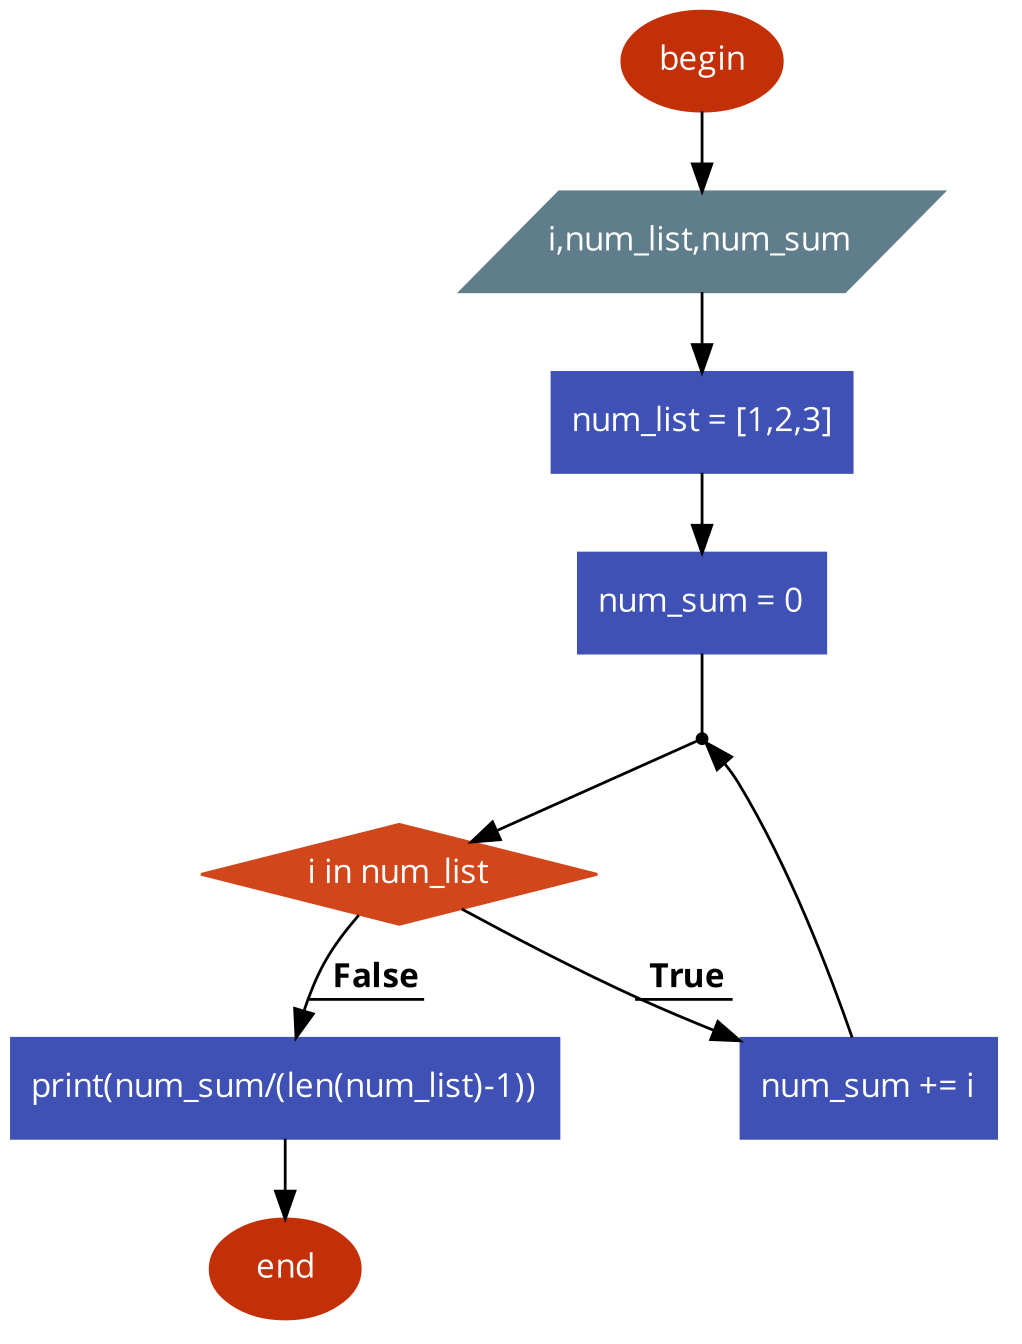
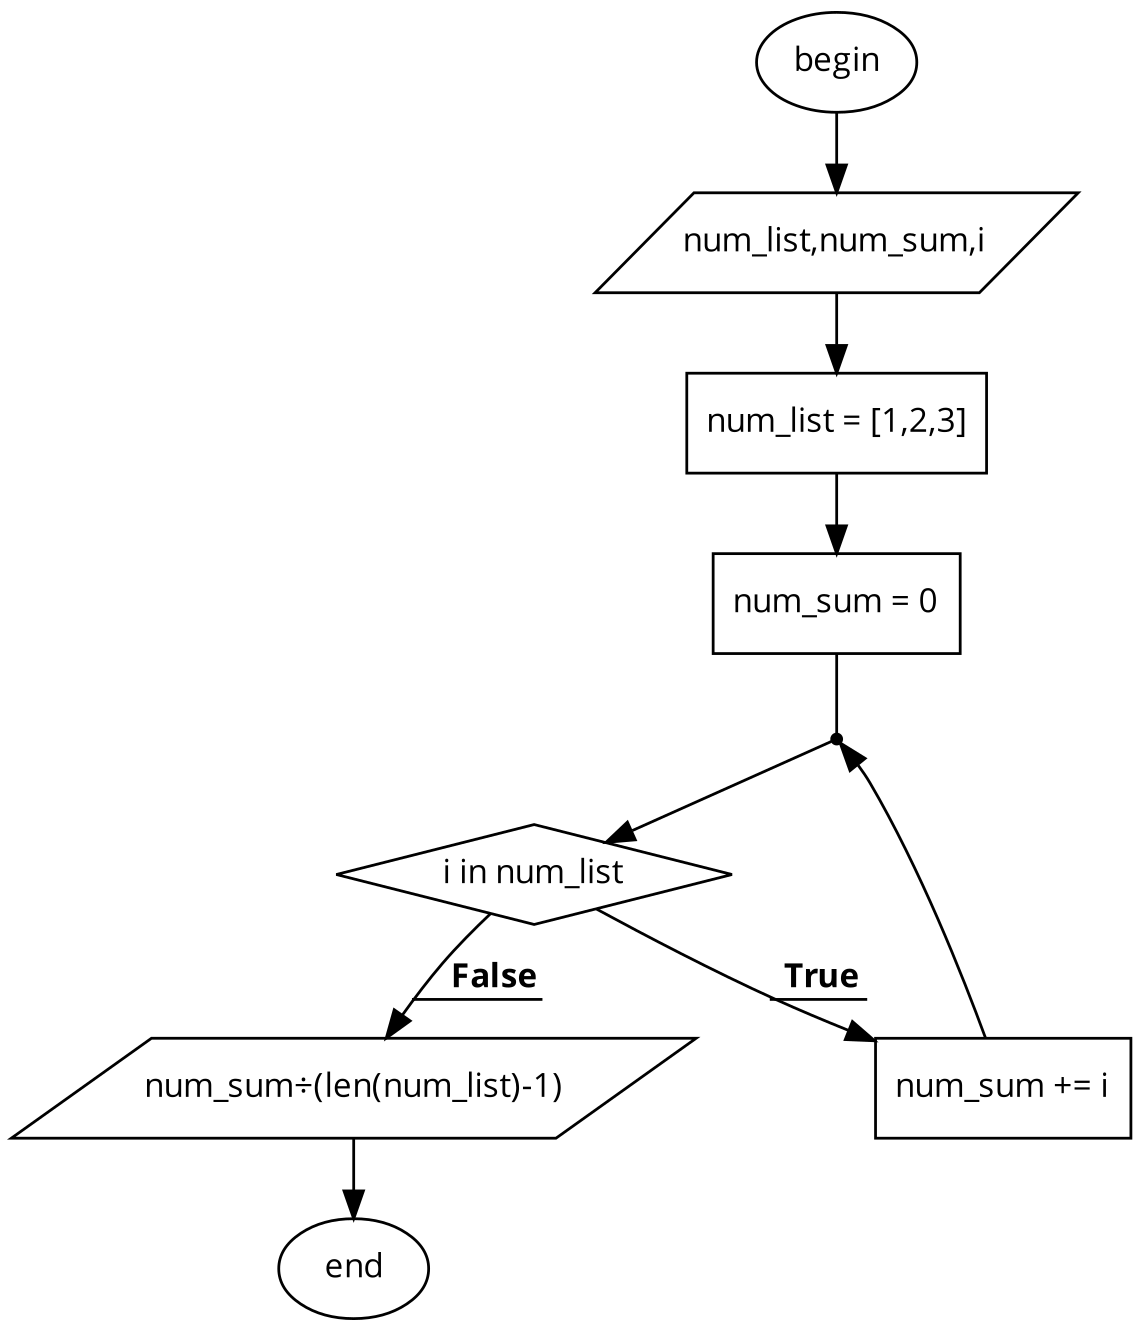
fix: minor fixes

Changed region(s): [[0.0, 0.0, 1.0, 1.0]]

diff --git a/Python2Pseudocode/Pseudocode.py b/Python2Pseudocode/Pseudocode.py
@@ -21,15 +21,21 @@ class Pseudocode:
     def _get_c_styled(self, line) -> str:
         #clear type-changing operators, input, print 
         line = line.replace('*', '×')
-        line = line.replace('/', ':')
-        line = re.sub('input ?\(.*?\)', '', line)
-        line = re.sub('print ?\((.*?)\)', '/\g<1>/', line)
-        line = re.sub('(int|float|str|bool|tuple|list|dict|set) ?\((.*?)\)', '\g<2>', line)
+        line = line.replace('/', '÷')
+        line = re.sub('input ?\( ?.* ?\)', '', line)
+        line = re.sub('print ?\( ?(.*) ?\)', '/ \g<1> /', line)
+        line = re.sub('(int|float|str|bool|tuple|list|dict|set) ?\( ?(.*?) ?\)', '\g<2>', line) #IT MUST BE LAST!!!!
+        
         
         #dont write line if it useless
         if '=' in line:
             sub_line = line[line.index('=')+1::]
             if sub_line.count(' ') == len(sub_line): return ''
+
+        #escape special symbs
+        spec_symb = re.findall(r'(\[|\]|\{|\})', line)
+        for symb in spec_symb: line = line.replace(symb, '\\' + symb)
+
 
         #control structs to c-style
         if line[0:2] == 'if':

diff --git a/ReadME.MD b/ReadME.MD
@@ -10,22 +10,24 @@ print(num_sum/(len(num_list)-1))
 ```
 Converts to
 ```
-begin
+begin;
 
-/i,num_list,num_sum/
+/num_list,num_sum,i/;
 
-|num_list = [1,2,3]|
+num_list = \[1,2,3\];
 
-|num_sum = 0|
+num_sum = 0;
+
 
 while(i in num_list){
-|num_sum += i|
+num_sum += i;
 
 }
 
-|print(num_sum/(len(num_list)-1))|
+/ num_sum÷(len(num_list)-1) /;
 
-end
+
+end;
 ```
 By [code2flow](http://app.code2flow.com "code2flow") converts to
 ![](./converted.png)
